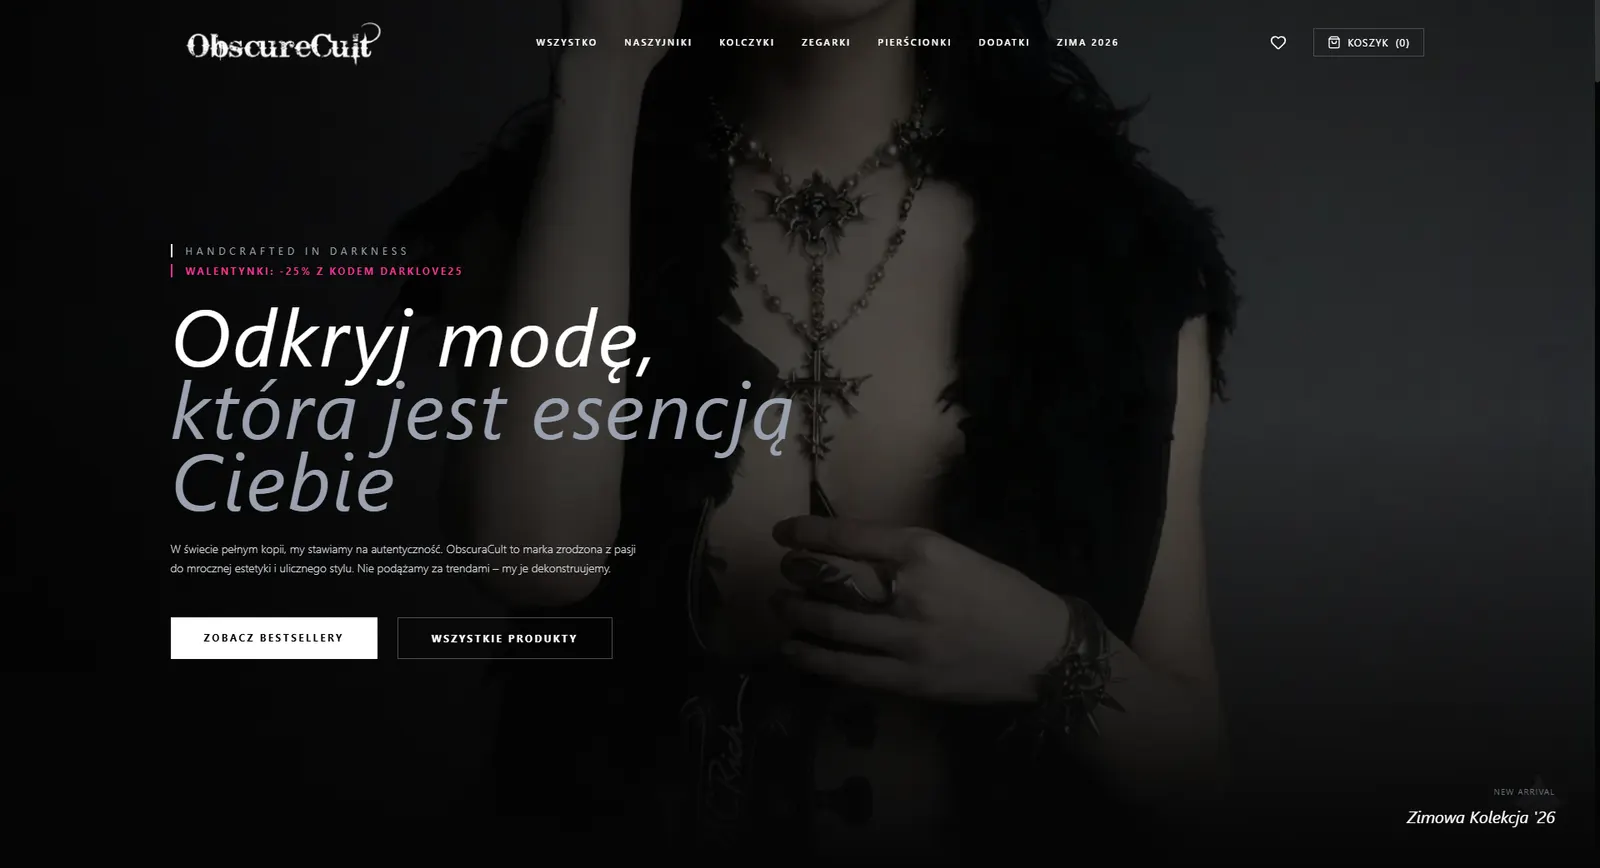
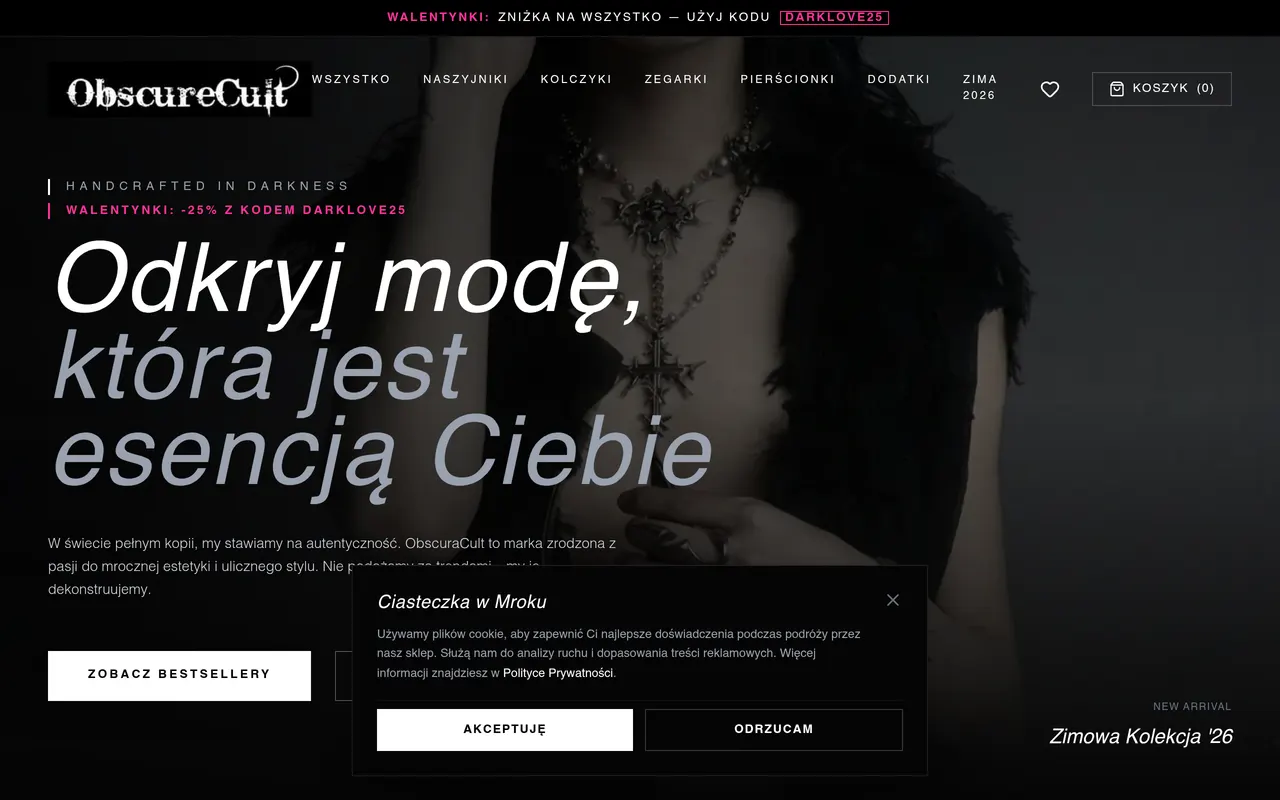
Portfolio: sekcja realizacji z 6 wdrozonymi stronami + miniatury (zrzuty ekranu)
- nowe miniatury webp: healthymind, alfafizjoterapia, pranie-wawa, obscuracult, holisticmotion, kumpirkrakowski
- PORTFOLIO w content.js, komponent Portfolio.jsx (siatka, karty linkuja do zywych witryn, target _blank)
- wpiete do Home po Uslugach + link 'Realizacje' w menu (#portfolio)

diff --git a/src/sections/Portfolio.jsx b/src/sections/Portfolio.jsx
@@ -1,0 +1,64 @@
+import { useEffect, useRef } from 'react'
+import { gsap, ScrollTrigger, prefersReducedMotion } from '../lib/motion'
+import { PORTFOLIO } from '../data/content'
+
+export default function Portfolio() {
+  const gridRef = useRef(null)
+
+  // Cards reveal as they scroll into view.
+  useEffect(() => {
+    if (prefersReducedMotion()) return
+    const cards = gridRef.current.querySelectorAll('.work-card')
+    const t = gsap.fromTo(
+      cards,
+      { opacity: 0, y: 60 },
+      {
+        opacity: 1, y: 0, duration: 0.8, ease: 'power3.out', stagger: 0.1,
+        scrollTrigger: { trigger: gridRef.current, start: 'top 82%', once: true },
+      }
+    )
+    return () => {
+      t.scrollTrigger?.kill()
+      t.kill()
+    }
+  }, [])
+
+  return (
+    <section className="work" id="portfolio">
+      <div className="work-header">
+        <span className="section-label">( WYBRANE REALIZACJE )</span>
+        <span className="work-count">{String(PORTFOLIO.length).padStart(2, '0')} PROJEKTÓW</span>
+      </div>
+
+      <div ref={gridRef} className="work-grid">
+        {PORTFOLIO.map((p, i) => (
+          <a
+            key={p.url}
+            href={p.url}
+            target="_blank"
+            rel="noopener noreferrer"
+            className="work-card"
+            data-cursor="OTWÓRZ"
+          >
+            <div className="work-card-media">
+              <img
+                src={p.img}
+                width={p.w}
+                height={p.h}
+                alt={`${p.name} — ${p.category}`}
+                loading={i > 2 ? 'lazy' : 'eager'}
+                draggable="false"
+              />
+              <span className="work-card-tag" aria-hidden="true">OTWÓRZ ↗</span>
+            </div>
+            <span className="work-card-index">{String(i + 1).padStart(2, '0')}</span>
+            <h3 className="work-card-title">{p.name}</h3>
+            <div className="work-card-meta">
+              <span>{p.category}</span>
+            </div>
+          </a>
+        ))}
+      </div>
+    </section>
+  )
+}

diff --git a/src/data/content.js b/src/data/content.js
@@ -12,6 +12,17 @@ export const CONTACT = {
   spots: '2 wolne miejsca',
 }
 
+// Portfolio — realne, wdrożone strony. Miniatury to zrzuty ekranu,
+// karty linkują do żywych witryn.
+export const PORTFOLIO = [
+  { name: 'HealthyMind', category: 'Psychoterapia', url: 'https://healthymind.com.pl/', img: asset('/work/healthymind.webp'), w: 1280, h: 800 },
+  { name: 'Alfa Fizjoterapia', category: 'Fizjoterapia uroginekologiczna', url: 'https://www.alfafizjoterapia.pl/', img: asset('/work/alfafizjoterapia.webp'), w: 1280, h: 800 },
+  { name: 'Pranie Wawa', category: 'Pranie tapicerki — usługi', url: 'https://pranie-wawa.pl/', img: asset('/work/pranie-wawa.webp'), w: 1280, h: 800 },
+  { name: 'ObscuraCult', category: 'Sklep internetowy / biżuteria', url: 'https://www.obscuracult.pl/', img: asset('/work/obscuracult.webp'), w: 1280, h: 800 },
+  { name: 'Flanders Medical', category: 'Fizjoterapia i osteopatia', url: 'https://holisticmotion.prezentacjastrony.pl/', img: asset('/work/holisticmotion.webp'), w: 1280, h: 800 },
+  { name: 'Krakowski Kumpir', category: 'Gastronomia', url: 'https://kumpirkrakowski.prezentacjastrony.pl/', img: asset('/work/kumpirkrakowski.webp'), w: 1280, h: 800 },
+]
+
 export const STATS = [
   { value: '24 h', label: 'maksymalny czas odpowiedzi' },
   { value: '100%', label: 'projektów bez podwykonawców' },

diff --git a/src/pages/Home.jsx b/src/pages/Home.jsx
@@ -5,6 +5,7 @@ import { setMeta } from '../lib/seo'
 import Hero from '../sections/Hero'
 import Manifesto from '../sections/Manifesto'
 import Services from '../sections/Services'
+import Portfolio from '../sections/Portfolio'
 import Studio from '../sections/Studio'
 import Faq from '../components/Faq'
 import Contact from '../sections/Contact'
@@ -40,6 +41,7 @@ export default function Home({ revealed }) {
       <Hero revealed={revealed} />
       <Manifesto />
       <Services />
+      <Portfolio />
       <Studio />
       <Faq />
       <Contact />

diff --git a/src/components/Nav.jsx b/src/components/Nav.jsx
@@ -82,6 +82,7 @@ export default function Nav({ revealed }) {
           <div className="menu-col menu-col--main">
             <span className="menu-head">MENU</span>
             <Link to="/" className="menu-link" data-cursor>Start</Link>
+            <Link to="/#portfolio" className="menu-link" data-cursor>Realizacje</Link>
             <Link to="/cennik" className="menu-link" data-cursor>Cennik</Link>
             <Link to="/blog" className="menu-link" data-cursor>Blog</Link>
             <Link to="/#contact" className="menu-link menu-link--accent" data-cursor>Kontakt</Link>